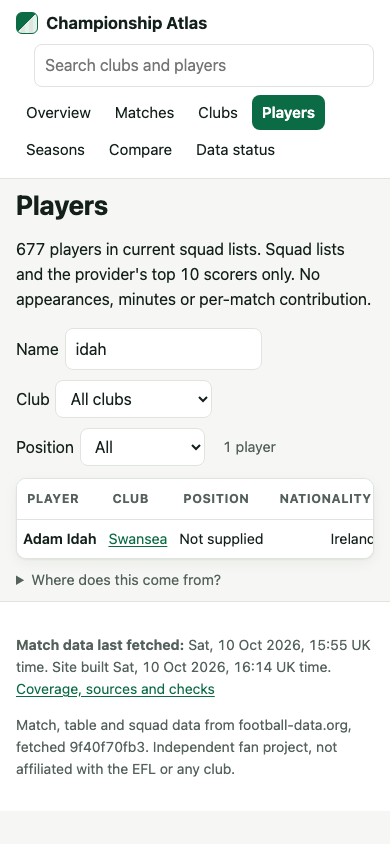
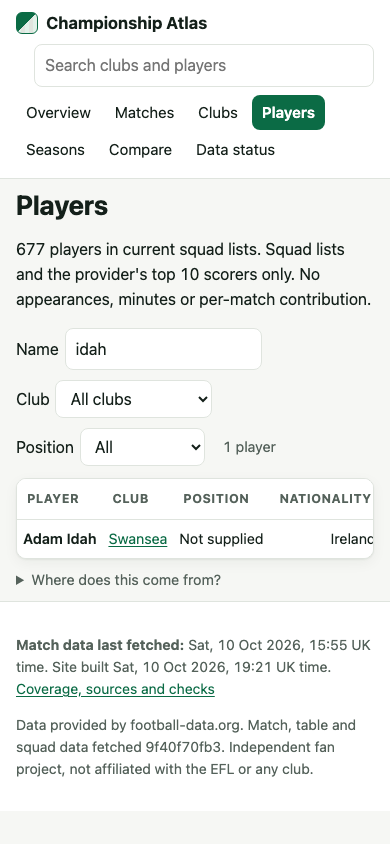
M5 QA fixes: in-repo FBref plan, consistent counts and statuses, header evidence, status-page attribution test

Changed region(s): [[0.0308, 0.8318, 0.9231, 0.9242], [0.6154, 0.7701, 0.7077, 0.8009]]

diff --git a/site/test/build.test.ts b/site/test/build.test.ts
@@ -99,6 +99,7 @@ test("every built page carries noindex and the provider attribution, and a page 
     assert.match(html, /<meta name="robots" content="noindex,nofollow">/, f)
     assert.ok(html.includes("Data provided by football-data.org"), f)
   }
+  assert.match(readFileSync(join(out, "status/index.html"), "utf8"), /<h2>Sources<\/h2><p><strong>Data provided by football-data\.org\.<\/strong>/)   // the status page itself, not only the footer
   assert.ok(!existsSync(join(out, "robots.txt")) && !existsSync(join(out, "sitemap.xml")))
   const f = join(out, "index.html"), html = readFileSync(f, "utf8")
   writeFileSync(f, html.replace('<meta name="robots" content="noindex,nofollow">', ""))

diff --git a/STATUS.md b/STATUS.md
@@ -5,13 +5,13 @@ Read `BRIEF.md` first, then this file. A fresh agent can resume from here alone.
 ## Run
 - Start time: Sat 10 Oct 2026 14:34:31 BST. Checkpoint 1 written 16:03 BST and updated 16:25 BST after the QA fixes (the 6 hour limit is a checkpoint, not a stop rule).
 - Current commit: see `git log -1`. Branch `main`, no remote, nothing pushed. M5 written 2026-10-10 evening (BST).
-- Resume point: every task that does not need the owner is done, including M5 as far as it can go. Next action for an agent: nothing, stop. If the owner has resolved Blocker 6 (FBref), build M5 Directive 2 from the original M5 brief; otherwise all remaining work is blocked on the owner (see Blockers).
+- Resume point: every task that does not need the owner is done, including M5 as far as it can go. Next action for an agent: nothing, stop. If the owner has resolved Blocker 6 (FBref), build M5 Directive 2 from `docs/m5-fbref-plan.md`; otherwise all remaining work is blocked on the owner (see Blockers).
 - Local start command: `make serve` after `make build` (http://localhost:4173/). From a clean checkout: `make setup && make ingest && make build && make serve` (needs `.env` with `FOOTBALL_DATA_ORG_KEY`).
 
 ## Scope and decisions
 - 2026-10-10, owner instruction: scope is M0 to M4 (was M0 to M2). The 6 hour limit is a per-run checkpoint, not a stop rule. At each checkpoint: commit, write the resume point here, continue. Never stop to ask: add owner needs to Blockers and carry on. Stop only when every remaining task is blocked on the owner. Search, Nix-supplied browser and Actions workflow stay in scope. Recorded in `BRIEF.md` section 0 (own commit f61da14).
 - 2026-10-10, owner instruction (M5): scope adds M5, hosting verdict then FBref player data. Owner decision, stated by the owner and NOT verified by an agent: the site is public and unlisted, with attribution. football-data.org permits showing its data on your own site while subscribed, with the attribution "Data provided by football-data.org". That does not cover redistributing raw responses, so snapshots stay git-ignored. The site carries `noindex,nofollow` and no sitemap, and no robots.txt Disallow (it would stop crawlers reading the noindex). The repository itself is public even though the site is unlisted.
-- M5 Directive 2 decision: FBref returned a Cloudflare challenge (403, `cf-mitigated: challenge`) to an honestly identified client on its robots.txt, the first of three Step 0 requests. As briefed that makes it Blocked: no further requests, no browser, no proxy, no code. Also deliberately NOT done: the workflow line passing `ATLAS_FBREF` from `FBREF_ENABLED` (nothing reads it, so it would be a dead switch that implies FBref works); add it together with the code if FBref is ever built. Test count guards: 26 Python (unchanged) and 7 site tests (raised from 6).
+- M5 Directive 2 decision: FBref returned a Cloudflare challenge (403, `cf-mitigated: challenge`) to an honestly identified client on its robots.txt, the first of the Step 0 requests (Step 0 allows up to 6, spread over robots.txt, two policy pages and one stats page). As briefed that makes it Blocked: no further requests, no browser, no proxy, no code. Also deliberately NOT done: the workflow line passing `ATLAS_FBREF` from `FBREF_ENABLED` (nothing reads it, so it would be a dead switch that implies FBref works); add it together with the code if FBref is ever built. Test count guards: 26 Python (unchanged) and 7 site tests (raised from 6).
 - Source decision (evidence in `docs/source-matrix.md`): football-data.org free plan is the only source. Fixtures, results, table, squads, top 10 scorers for 2026-27, plus full results and tables for 2025-26, 2024-25, 2023-24 (older returns 403). No lineups, appearances, minutes, goal scorers per match or advanced metrics.
 - Rejected: Football-Data.co.uk (terms: private individuals only, no automated or commercial use), TheSportsDB free key (truncates to 15 events and 5 table rows, terms unreadable), API-Football (free plan refuses the 2026 season: "try from 2022 to 2024"; 2024 data exists but players carry no date of birth, so they cannot be mapped to football-data.org players without matching by name, which the brief forbids; terms unreadable; 100 requests per day). Wikipedia has no parseable results.
 - Consequences: player pages show squad bio plus the provider's top 10 scorer record, and say plainly that appearances, minutes and career history are Unavailable. Per-90 metrics, xG and shot maps are out of scope for lack of data.
@@ -22,7 +22,7 @@ Read `BRIEF.md` first, then this file. A fresh agent can resume from here alone.
 - Playoff scores are shown as the provider supplies them with a visible warning: extra time figures are sometimes inconsistent and shootout results are missing.
 - Kick-off times at exactly 00:00 UK are shown as "Time TBC" (provider placeholder).
 - Playwright pinned to 1.63.0, equal to nixpkgs `playwright-driver` (flake guard: `PLAYWRIGHT_DRIVER_VERSION`). Update both together.
-- Discovery request budget: 23 of 40 on docs and keyless sources, plus 9 keyed exploratory calls (`docs/discovery-requests.md`).
+- Discovery request budgets (separate caps, `docs/discovery-requests.md`): M0 gate 23 of 40 on docs and keyless sources, plus 9 keyed exploratory calls to football-data.org and API-Football; M5 Sports Reference 1 of 6. 33 requests in total.
 - One mistake caught and fixed during the run: an edit of mine emptied `site/test/build.test.ts` and `make check` still passed. `make check` now fails if fewer than 26 Python tests or 7 site tests run.
 
 ## Tasks
@@ -33,8 +33,8 @@ Read `BRIEF.md` first, then this file. A fresh agent can resume from here alone.
 | M2 | done | Change report, player detail, search, missing/stale/partial states, workflow, owner instructions | Change report states insufficient, partial (live now), ok; client search with keyboard; stale banner proven with a faked clock; `.github/workflows/publish.yml` and README publish steps; cost ledger |
 | M3 | prepared, enabling blocked on owner | Schedule enabled, recovery exercised, failure notification | Recovery exercised by tests (interrupted ingest, torn manifest, 429 retries, failed build keeps old site). Notification is the `report` job (one issue per outage, run fails so GitHub emails). Schedule not enabled: owner action |
 | M4 | done within source limits | Bounded backfill, comparisons, historical charts | `make ingest` backfills 3 seasons (idempotent, stops at 403); season pages with play-offs; points-after-each-match chart against two earlier seasons on every club page; 276 head-to-head pages |
-| Checks | done | Brief section 11 list | `make check`: 26 Python tests (no duplicate facts on re-ingest, interrupted ingest, corrections and stale observations, null vs zero, deterministic replay, ambiguous identity, reschedule, standings with adjustment, change windows) and 6 site tests (failed build keeps live site including the real exit path, broken link, page count, em dash and NaN, provisional fixtures). `make e2e`: desktop and mobile journey, axe WCAG 2 A and AA in light and dark (mutation-tested: fails on bad contrast), keyboard, stale |
-| M5 directive 1 | done | Hosting verdict recorded, attribution and noindex on every page, README and workflow notes, site test | Commit f72e474; site test `every built page carries noindex and the provider attribution`; `make build` passes the new build check on all 1,545 files |
+| Checks | done | Brief section 11 list | `make check`: 26 Python tests (no duplicate facts on re-ingest, interrupted ingest, corrections and stale observations, null vs zero, deterministic replay, ambiguous identity, reschedule, standings with adjustment, change windows) and 7 site tests (failed build keeps live site including the real exit path, broken link, page count, em dash and NaN, provisional fixtures, noindex and attribution on every page). `make e2e`: desktop and mobile journey, axe WCAG 2 A and AA in light and dark (mutation-tested: fails on bad contrast), keyboard, stale |
+| M5 directive 1 | done | Hosting verdict recorded, attribution and noindex on every page, README and workflow notes, site test | Commit f72e474; site test `every built page carries noindex and the provider attribution`; `make build` passes the new build check on all 1,541 HTML pages (the other 4 files are css, js and two json) |
 | M5 directive 2 | **Blocked** at Step 0 | FBref permission and access proven before any code | `docs/discovery-requests.md` S1: robots.txt 403, `cf-mitigated: challenge`. Rest of Directive 2 skipped as briefed; no FBref code written |
 | Not applicable | n/a | Per-90 metrics, provider-specific metric identity | Still no minutes or metrics data in any reachable source, so the row stays; it flips only if FBref is built |
 
@@ -51,7 +51,7 @@ Everything left needs the owner. Exact actions:
 3. Enable Pages with source GitHub Actions (`gh api -X POST repos/:owner/championship-atlas/pages -f build_type=workflow`) and re-confirm in Settings, Pages that a Free account can serve a public repository (confirmed only through a docs search summary).
 4. Set `PUBLISH_ENABLED=true` (`gh variable set PUBLISH_ENABLED --body true`). Nothing publishes before this.
 5. Keepalive, every 8 weeks: scheduled workflows pause after 60 days without repository activity and a paused schedule cannot re-enable itself. Push any commit or run `gh workflow enable publish.yml`.
-6. FBref (player minutes, starts, cards, per-90): read the three policy pages in a browser (`https://fbref.com/robots.txt`, `https://www.sports-reference.com/bot-traffic.html`, `https://www.sports-reference.com/data_use.html`) and record what they say about automated collection, rates and republishing in `docs/source-matrix.md`. If automation is allowed and a route exists that does not involve passing a Cloudflare challenge, ask an agent to build M5 Directive 2 from the original M5 brief, and decide `FBREF_ENABLED` for CI. Until then FBref is Blocked and player pages keep the Unavailable state. No other source for player appearances exists at $0.
+6. FBref (player minutes, starts, cards, per-90): read the three policy pages in a browser (`https://fbref.com/robots.txt`, `https://www.sports-reference.com/bot-traffic.html`, `https://www.sports-reference.com/data_use.html`) and record what they say about automated collection, rates and republishing in `docs/source-matrix.md`. If automation is allowed and a route exists that does not involve passing a Cloudflare challenge, ask an agent to build M5 Directive 2 from `docs/m5-fbref-plan.md`, and decide `FBREF_ENABLED` for CI. Until then FBref is Blocked and player pages keep the Unavailable state. No other source for player appearances exists at $0.
 
 ## QA review
 One independent read-only review ran at the end of checkpoint 1 (12 findings listed). Each was checked against the code or built output before fixing. All were real; status:

diff --git a/docs/m5-fbref-plan.md b/docs/m5-fbref-plan.md
@@ -1,0 +1,19 @@
+# M5 plan: FBref player data (only if the owner unblocks it)
+
+Status: Blocked at Step 0 on 2026-10-10. See STATUS.md, Blocker 6. This file holds the build plan from the owner's M5 brief so a fresh agent can resume from the repository alone.
+
+## Step 0: prove permission and access before any code (budget 6 requests to Sports Reference hosts, logged in docs/discovery-requests.md)
+Use the honest User-Agent `championship-atlas/0.1`. No Playwright, headless browser, proxy or cache site: those are evasion. Stop at the first failure.
+1. `https://fbref.com/robots.txt`: the stats path must be allowed for our agent. (Done 2026-10-10: 403 Cloudflare challenge.)
+2. `https://www.sports-reference.com/bot-traffic.html` and `https://www.sports-reference.com/data_use.html`: record verbatim what they say about automated collection, rates and republishing.
+3. One request to `https://fbref.com/en/comps/10/stats/Championship-Stats`, saved through `atlas/snapshots.py` with source `fbref`. The season read from the page must equal the current season resolved from football-data.org.
+Outcomes: 403 or challenge means Blocked. Terms forbidding automation or republication means Unavailable. Access works but terms unreadable means local only, switched off in the workflow. Access works and terms permit with attribution means build and record the attribution wording.
+
+## Build (only if Step 0 passes)
+- Fetching: one page holds every player with club, so one request per run. Add to `make ingest` through `_Run` in `atlas/cli.py`, with cap (3 per run) and spacing (7 s) as parameters of `_Run`, not a copy. Skip the fetch when the last good FBref snapshot is under 7 days old, enforced in code. Switch: environment variable `ATLAS_FBREF`, on by default locally; in the workflow pass it from repository variable `FBREF_ENABLED`, off unless `true`. No new job or schedule. Snapshots git-ignored unless the terms explicitly permit redistribution. Note that FBref has never been fetched from a GitHub runner.
+- Parsing (`atlas/fbref.py`): `html.parser` only; the stats table may sit inside an HTML comment, so feed comment text back through the parser and handle both. Read cells by `data-stat`, never by position, and confirm the names against the saved page. Player and club keys come from ids in `/en/players/<id>/` and `/en/squads/<id>/` links, never names. Empty cell is NULL, never 0. A player missing from the table is "not listed by the provider". Parser test on a fixture (committed real page only if terms permit; otherwise a hand-written test-only fixture).
+- Storage: one row per player, per club, per season (a mid-season mover has two rows, never summed silently). Columns: matches, starts, minutes, goals, assists, penalties scored and attempted, yellow and red cards, plus name, nation, position, birth year as supplied; keep `snapshot_id`, our `fetched_at` and the provider's own update time separately. Do not store FBref's per-90 columns: per-90 is calculated once in `atlas/export.py` from counts and minutes, with a plain-English note, shown only above a documented minimum of minutes and otherwise "Too few minutes". xG and other advanced columns are out of scope.
+- Identity: clubs in a hand-reviewed `data/fbref_clubs.csv` (FBref squad id, FBref name, our team id; 24 rows); validation rejects the build if any FBref club is unmapped. Players link to existing football-data.org players only when same mapped club, same birth year, same normalised full name, and exactly one candidate on each side; record as a `source_id` row. Everything else stays unlinked, is kept, and is counted on the status page. Where both sources give the same figure (top 10 goals) show each with its source and fetch time; never average or overwrite.
+- Pages: club squad table gains the FBref columns for every FBref row at that club, linked or not. Player page shows stats only for linked players. Every figure shows source, fetch date and attribution. With no FBref snapshot, every page still builds with the existing Unavailable state.
+- Verification: parser fixture; cap and spacing with a fake sleep; the 7 day skip; re-ingest adds no rows; NULL distinct from 0; same name at a different club or birth year not linked; ambiguous pair stays unlinked; all 24 clubs mapped; per-90 below the minimum shows no number; replay twice identical including FBref; fresh screenshots; raise the Makefile test guards; one read-only QA review.
+- Docs on completion: STATUS per-90 row flips, cost-ledger FBref row with verified limit and measured requests, source-matrix FBref row and feature classes.

diff --git a/docs/source-matrix.md b/docs/source-matrix.md
@@ -1,9 +1,9 @@
 # Source matrix (M0 data feasibility gate)
 
-Verified 2026-10-10 (BST). Discovery requests used: 23 of 40 on docs and keyless sources, plus keyed probes: football-data.org 5 calls (1 failed with an unquoted-key bug of mine), API-Football 4 calls (see `discovery-requests.md`).
+Data evidence verified 2026-10-10 (BST). Display permission for football-data.org is owner-stated, not agent-verified. Discovery requests: 23 of 40 on docs and keyless sources, plus keyed probes: football-data.org 5 calls (1 failed with an unquoted-key bug of mine), API-Football 4 calls; M5 Sports Reference 1 of 6, a separate cap (see `discovery-requests.md`).
 Current season resolved from the source: **2026-27** (Football-Data.co.uk file `2627/E1.csv` holds matches to 20/09/2026; Wikipedia page `2026-27 EFL Championship`; TheSportsDB season `2026-2027`).
 
-Legend: Supported = verified data and permitted route. Partial = usable with documented gaps. Unavailable = no verified permitted $0 route. Blocked = needs an owner action.
+Legend: Supported = verified data and a permitted route (where permission is owner-stated rather than agent-verified, the row says so). Partial = usable with documented gaps. Unavailable = no verified permitted $0 route. Blocked = needs an owner action.
 
 ## Verdict per source
 
@@ -21,8 +21,8 @@ Legend: Supported = verified data and permitted route. Partial = usable with doc
 | Feature | Class | Route and gaps |
 |---|---|---|
 | Fixtures and results, current season | Supported | football-data.org. Display on the owner's verdict with attribution; raw snapshots not redistributed |
-| Standings with adjustments | Supported locally | Derived from results by `atlas/standings.py`, reconciled against `/standings` snapshot; deductions need a cited adjustment |
-| Teams | Supported locally | football-data.org |
+| Standings with adjustments | Supported (display on the owner's verdict) | Derived from results by `atlas/standings.py`, reconciled against `/standings` snapshot; deductions need a cited adjustment |
+| Teams | Supported (display on the owner's verdict) | football-data.org |
 | Match detail beyond score and half-time | Unavailable | No goals, cards or lineups in the free matches response |
 | Player pages, current season | Partial | Squad bio and top 10 scorers only. No appearances, minutes or per-match contribution |
 | Player appearances and history | Partial, 2022 to 2024 only | API-Football, request-hungry, terms unverified |

diff --git a/docs/discovery-requests.md b/docs/discovery-requests.md
@@ -36,5 +36,13 @@ Used: 23 of 40. Web searches are not source requests and are not counted.
 |---|------|------|------|--------|
 | S1 | 2026-10-10 19:20 BST (18:20 UTC) | fbref.com | GET /robots.txt | **403**, `cf-mitigated: challenge`, `server: cloudflare`, body is a "Just a moment..." Cloudflare challenge page (5,455 B). Stopped here as briefed: steps 2 (policy pages) and 3 (stats page) not attempted |
 
-Used: 1 of 6. Prior evidence in the brief: a hosted fetcher also got 403 on the three policy URLs at 19:10 BST. This is the one permitted retest from this machine. Evidence kept in `data/samples/fbref_robots.txt` (git-ignored challenge page).
+Used: 1 of 6. Prior evidence in the brief: a hosted fetcher also got 403 on the three policy URLs at 19:10 BST. This is the one permitted retest from this machine. Evidence kept in `data/samples/fbref_robots.txt` (git-ignored: the challenge page body only). The response headers are recorded here verbatim because the ignored file does not carry them:
+
+```
+HTTP/2 403
+date: Sat, 10 Oct 2026 18:20:53 GMT
+content-type: text/html; charset=UTF-8
+cf-mitigated: challenge
+server: cloudflare
+```
 

diff --git a/data/samples/README.md b/data/samples/README.md
@@ -1,4 +1,4 @@
 Evidence samples from the source feasibility gate (see docs/source-matrix.md).
 
 - `wiki_*.json`: Wikipedia API responses for the 2026-27 EFL Championship page, revision 1379497321. Text on Wikipedia is CC BY-SA 4.0 (https://creativecommons.org/licenses/by-sa/4.0/). Kept as evidence only; no product data comes from it.
-- `fduk_*`, `tsdb_*`, `apif_*`: git-ignored, local only. Their terms forbid or do not confirm redistribution.
+- `fduk_*`, `tsdb_*`, `apif_*`, `fbref_*`: git-ignored, local only. Their terms forbid or do not confirm redistribution.
